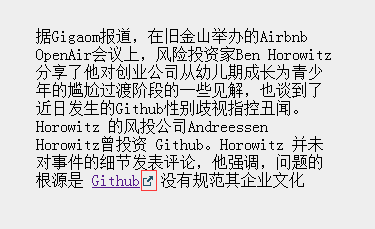
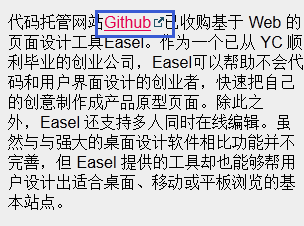
text-selected

diff --git a/external-link/index.html b/external-link/index.html
@@ -16,7 +16,7 @@
 </head>
 <body>
 <p>
-	据Gigaom报道，在旧金山举办的Airbnb OpenAir会议上，风险投资家Ben Horowitz分享了他对创业公司从幼儿期成长为青少年的尴尬过渡阶段的一些见解，也谈到了近日发生的Github性别歧视指控丑闻。Horowitz 的风投公司Andreessen Horowitz曾投资 Github。Horowitz 并未对事件的细节发表评论，他强调，问题的根源是 <a class="external" href="https://github.com/" target="_blank">Github</a> 没有规范其企业文化
+	代码托管网站<a class="external" href="https://github.com/" target="_blank">Github</a>已收购基于 Web 的页面设计工具Easel。作为一个已从 YC 顺利毕业的创业公司，Easel可以帮助不会代码和用户界面设计的创业者，快速把自己的创意制作成产品原型页面。除此之外，Easel 还支持多人同时在线编辑。虽然与与强大的桌面设计软件相比功能并不完善，但 Easel 提供的工具却也能够帮用户设计出适合桌面、移动或平板浏览的基本站点。
 </p>
 </body>
 </html>

diff --git a/external-link/external-link.css b/external-link/external-link.css
@@ -1,6 +1,7 @@
 a.external{
 	background: url("icons.png") no-repeat scroll right 4px rgba(0, 0, 0, 0);
     padding-right: 13px;
+    color: #e50053;
 }
 a.external:hover {
     background-position: right -14px;

diff --git a/README.md b/README.md
@@ -1,4 +1,9 @@
 # 做吊炸天的网站
 
 ## [外链标识](external-link)
-在文章内的会跳出本站的链接要有小图标进行标识出来。如下图：![外链标识](external-link/demo.png)
+在文章内的会跳出本站的链接要有小图标进行标识出来。
+![外链标识](external-link/demo.png)
+
+## [文字选中](text-selected)
+文字选中时，可设置与网站主题相符合的颜色。
+![文字选中](text-selected/demo.png)
